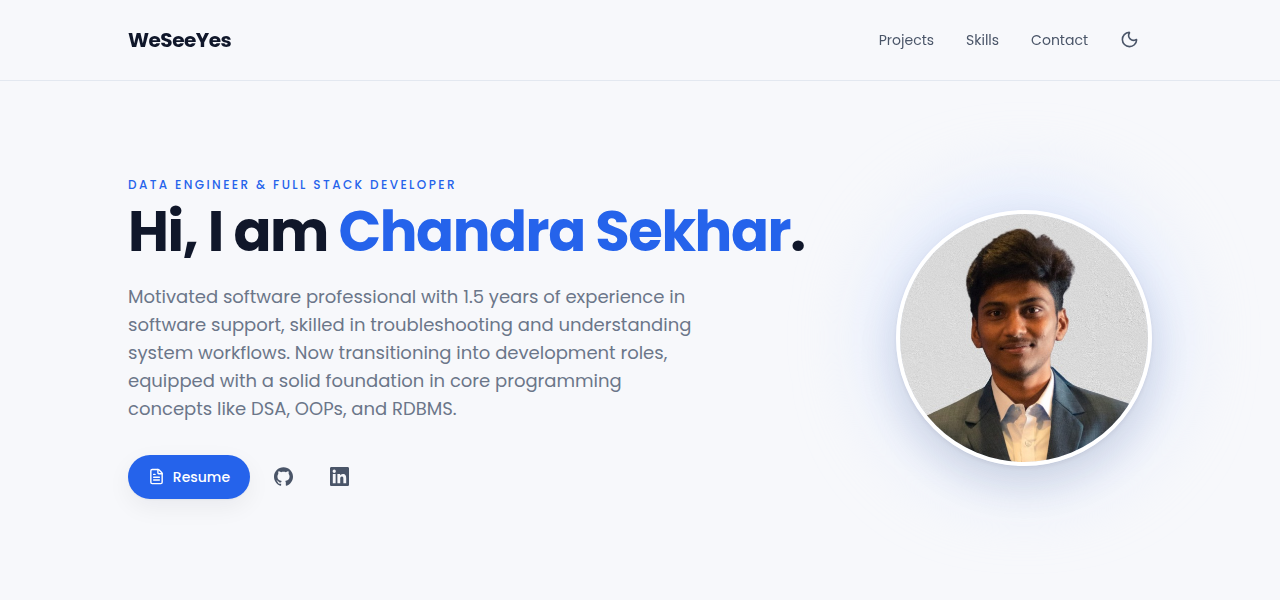
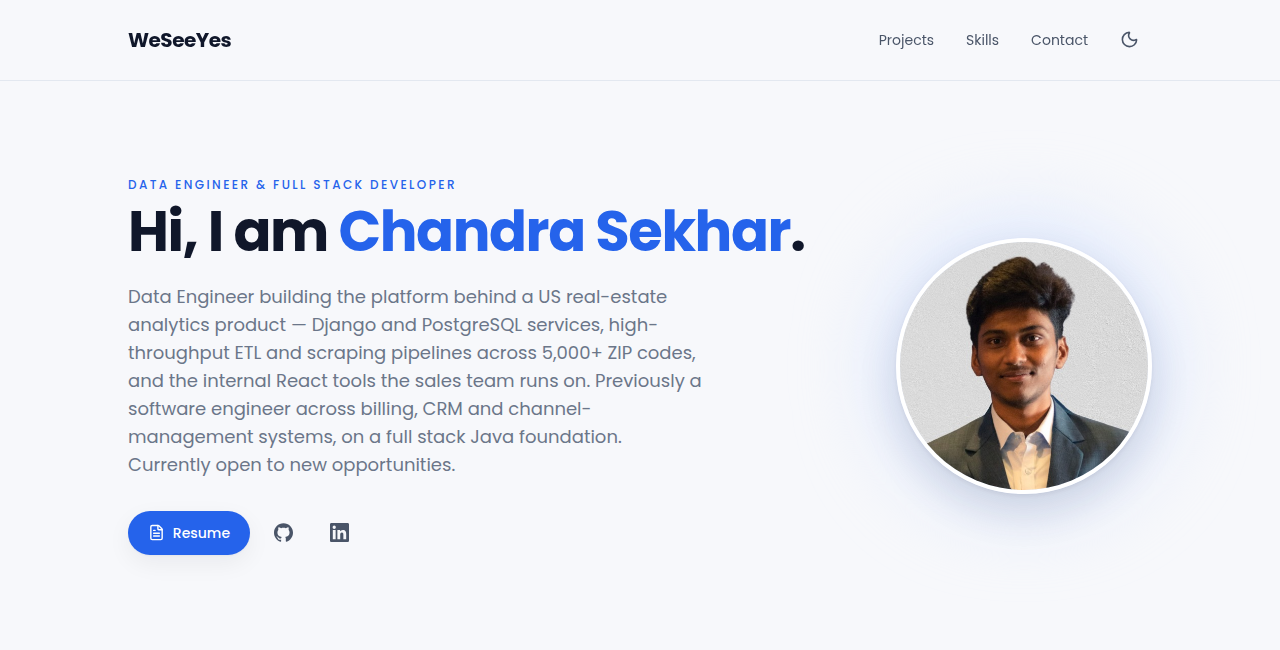
Rewrite the hero description from the current resume
Replace the "transitioning into development" copy with what the resume
actually says: the data platform work at Nextburb, the earlier billing
and CRM engineering, and current availability. Refresh the Portfolio
card screenshot to match.

Claude-Session: https://claude.ai/code/session_01AMRYE2seuNMdFgqtB5bA92

diff --git a/src/portfolio.js b/src/portfolio.js
@@ -11,7 +11,7 @@ const about = {
   picture: 'CS.jpg',
 
   description:
-    'Motivated software professional with 1.5 years of experience in software support, skilled in troubleshooting and understanding system workflows. Now transitioning into development roles, equipped with a solid foundation in core programming concepts like DSA, OOPs, and RDBMS.',
+    'Data Engineer building the platform behind a US real-estate analytics product — Django and PostgreSQL services, high-throughput ETL and scraping pipelines across 5,000+ ZIP codes, and the internal React tools the sales team runs on. Previously a software engineer across billing, CRM and channel-management systems, on a full stack Java foundation. Currently open to new opportunities.',
   resume: 'CS-Resume.pdf',
   social: {
     linkedin: 'https://www.linkedin.com/in/vannem-reddy-chandra-sekhar-337367429/',
